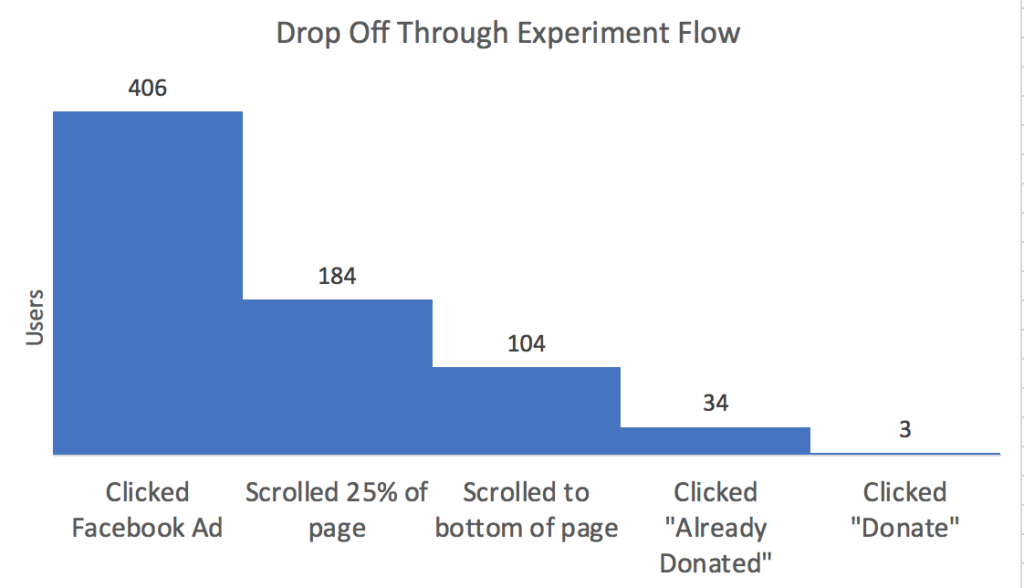
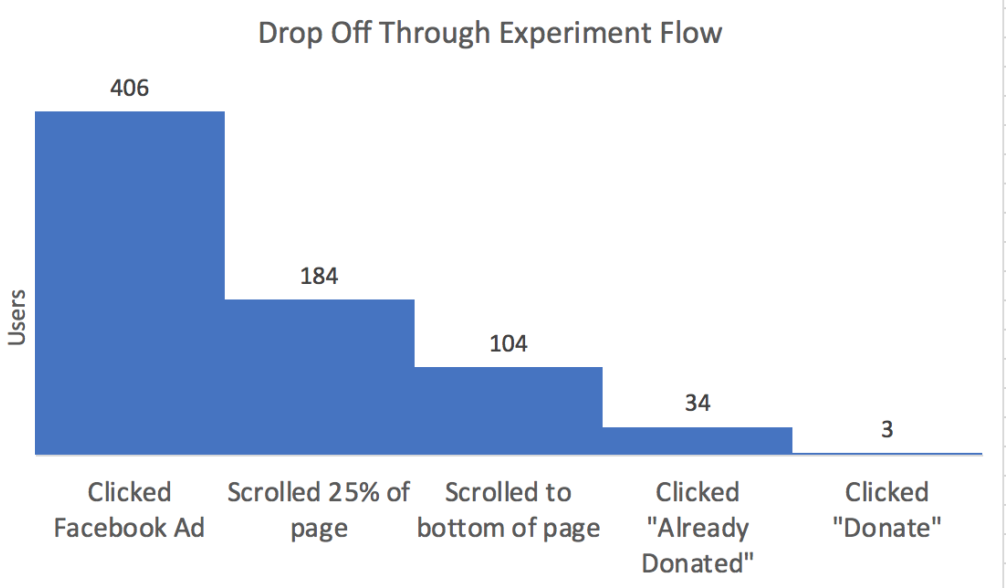
update

diff --git a/pages/wbur.html b/pages/wbur.html
@@ -536,10 +536,10 @@
         </div>
     </section>
     <section class="page clearfix" >
-        <h3 style="padding-top:20px;">Experiment Findings</h3>
+        <h3 style="padding-top:20px;">Experiment results</h3>
         From the ads, we had 406 participants in the experiment. Below is a summary of our discoveries and observations.
         <div class="clearfix" style="margin:30px;">
-            <h4>Overlapping personas</h4>
+            <h4>Finding: Overlapping personas</h4>
             <p>Based on how these users selected amongst the three personas, we can say that these three personas exist, but they are not significantly distinct from each other. 53% of users clicked “All of the above,” indicating that our personas overlap for a significant portion of the audience.</p>
             <div class="col-lg-12">
             <img src="wbur/f1.png" alt="" style="width:80%;"/>
@@ -551,6 +551,66 @@
                 <li>And 53% chose “All of the above.”</li>
               </ul>
               <p>While half our audience agreed with all statements, we have evidence now that <b>a message focused on just one of these themes will not resonate with about 30% of listeners</b>. This is a useful metric to keep in mind when crafting donation messaging — not all messages works for all listeners.</p>
+        </div>
+        <div class="clearfix" style="margin:30px;">
+        <h4>Observation: Significant Drop Off Through the Funnel</h4>
+        <p>As anyone in digital marketing or web analytics knows, users bounce and drop off through any user experience. This experiment is no different. So we saw users drop off between clicking on a persona button and landing on the next page of the experience, and then throughout the scroll of the messaging page. This chart illustrates the drop off and highlights a lesson we should have known: we need more than 406 users to enter the funnel if we want to receive donations at the end.</p>
+        <div class="col-lg-12">
+            <img src="wbur/Drop pff.png" alt="" style="width:90%;"/>
+            </div>
+        </div>
+
+        <div class="clearfix" style="margin:30px;">
+        <h4>Observation: Scrolling through Persona Messages</h4>
+        <p>When users clicked on persona, they entered a scrolling page of messaging, either aligned to their persona or not. Overall, 56% of users who landed on the page to read the message scrolled to the bottom of the page, irregardless of the messaging. There is some variation in which messages generated the most scrolling, as shown in the table below, but the numbers within each category are too small to draw definitive conclusions.</p>
+        <table style="width:100%">
+            <tr>
+              <th>USERS SCROLLING TO BOTTOM OF PAGE WHEN…</th>
+              <th>ASPIRATIONAL LEARNER</th> 
+              <th>WORLD CITIZEN</th>
+              <th>LIFELONG LISTENER</th>
+            </tr>
+            <tr>
+              <td>Message aligned to their persona</td>
+              <td>55%</td>
+              <td>62%</td>
+              <td>54%</td>
+            </tr>
+            <tr>
+              <td>Message mis-aligned to their persona</td>
+              <td>55%</td>
+              <td>60%</td>
+              <td>20%</td>
+            </tr>
+            
+              </table>
+           <p>Users who selected “All of the above” were randomly assigned to the different persona messages. The percentage of users scrolling to the bottom of the page may indicate that our <b>Lifelong Learner message and imagery worked better</b>: 67% people who saw the Lifelong Listener message scrolled to the bottom of the page, which is the best performance among the three. But overall, this indicates that the messages worked equally well at engaging a user in scrolling through.</p>
+           <table style="width:100%">
+              <tr>
+                  <th>MESSAGE SEEN BY
+                      AN “ALL OF THE ABOVE” USER</th>
+                  <th>PERCENTAGE REACHING
+                      BOTTOM OF MESSAGE</th> 
+                </tr>
+                <tr>
+                  <td>Aspirational Learner message</td>
+                  <td>56.8%</td>
+                  </tr>
+                  <tr>
+                      <td>World Citizen message</td>
+                      <td>52.6%</td>
+                      </tr>
+                      <tr>
+                          <td>Lifelong Listener message</td>
+                          <td>66.7%</td>
+                          </tr>
+            </table>
+        </div>
+        <div class="clearfix" style="margin:30px;">
+          <h4>Finding: Our Donors are Engaged</h4>
+          <p>Of the 104 people who reached the bottom of the page with the call-to-action buttons, 3 people clicked “support” and 34 people clicked “I’ve supported before.” 67 people did not click a button.</p>
+          <p>We conclude from this that at least 33% of experiment participants were donors. This rate is approximately double the rate of listeners who are donors (which is approximately 15%). Our existing donors are <b>connected to us</b>, willing to try out our pilots, and looking to engage with us. </p>
+        </div>
 
     <!--
 
